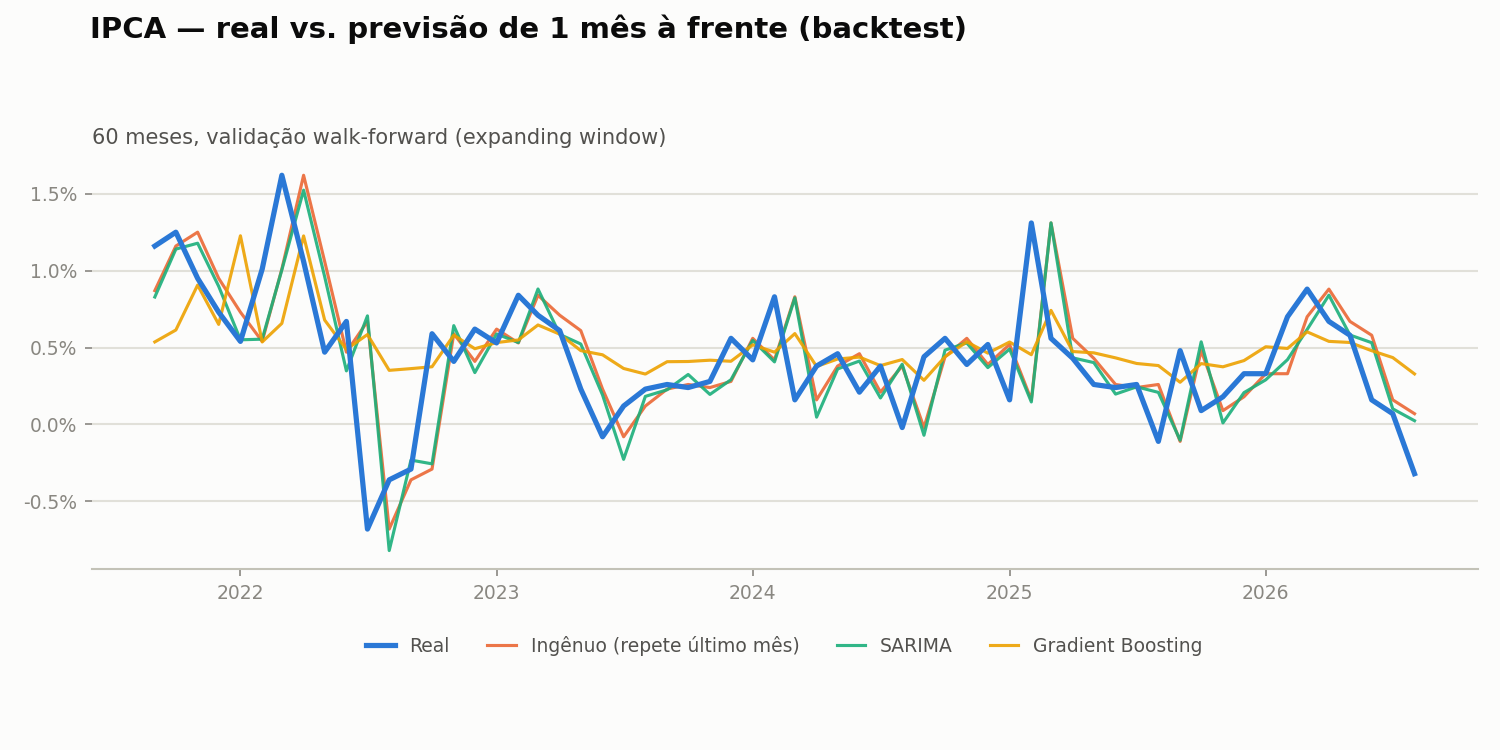
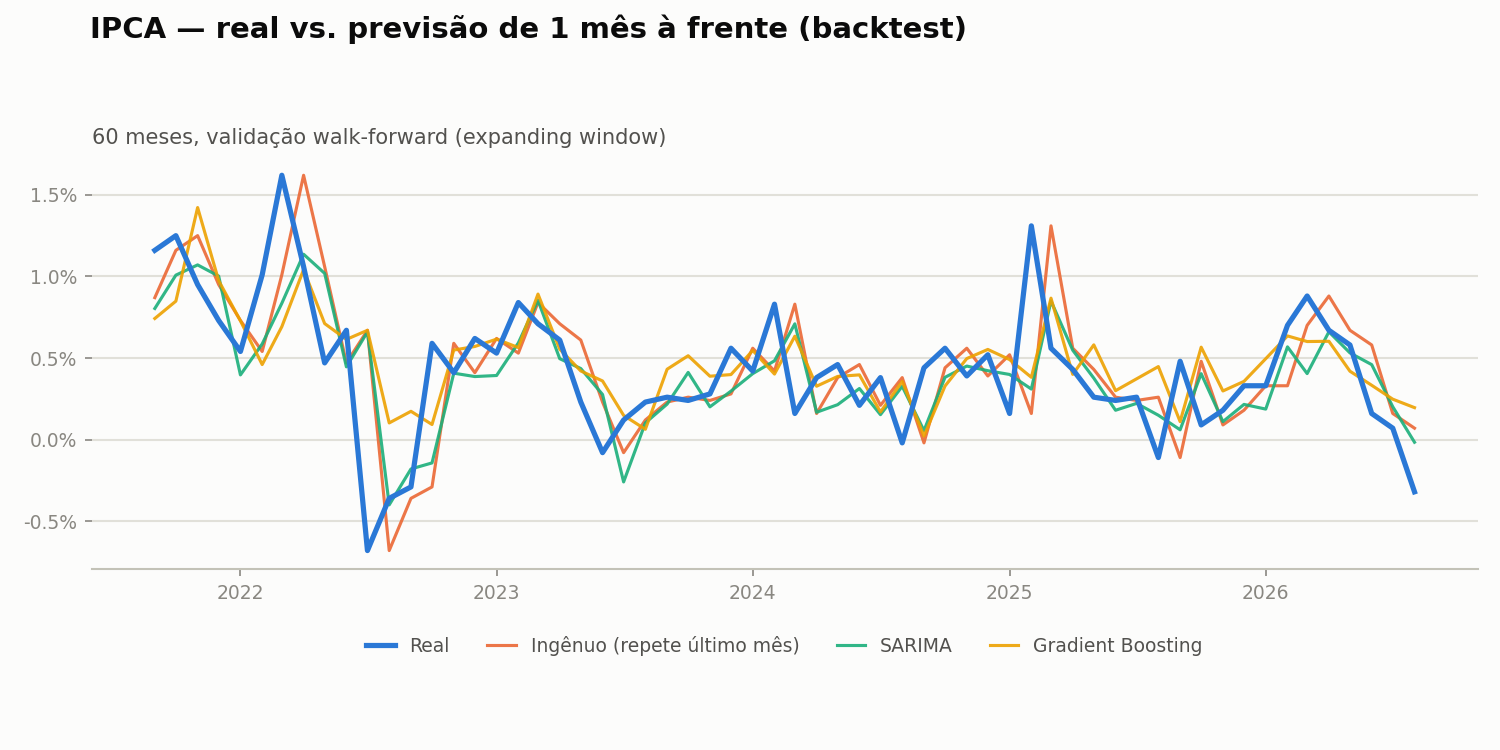
Adiciona log de previsões reais e corrige janela de treino
registrar_previsao.py grava, antes de cada divulgação do IBGE, o que
os modelos preveem para o próximo mês, e reconcilia o valor real assim
que sai — medindo precisão fora da amostra ao longo do tempo em vez de
só simulada. Roda automaticamente todo mês pelo workflow.

Também restringe o treino dos modelos ao período pós-Plano Real
(jul/1994): incluir a hiperinflação piorava as estimativas do SARIMA.

diff --git a/ipca-ibge/registrar_previsao.py b/ipca-ibge/registrar_previsao.py
@@ -1,0 +1,84 @@
+"""
+Mantém um log de previsões reais (fora da amostra) da variação mensal do
+IPCA: a cada execução, preenche o valor real de previsões antigas cujo mês
+já foi divulgado pelo IBGE, e — se o próximo mês ainda não tiver previsão
+registrada — gera uma nova usando só os dados disponíveis até agora.
+
+Diferente do backtest em prever_ipca.py (que simula previsões passadas),
+aqui a previsão é gravada ANTES de o IBGE divulgar o dado real, então o
+log mede precisão de verdade ao longo do tempo, sem viés de retrospecto.
+Uma previsão, uma vez registrada, nunca é reescrita.
+"""
+
+import os
+
+import pandas as pd
+
+from modelos_ipca import carregar, construir_features, prever_naive, prever_sarima, prever_ml
+
+LOG = "previsoes_log.csv"
+
+
+def carregar_log():
+    if os.path.exists(LOG):
+        return pd.read_csv(LOG, parse_dates=["mes_previsto"])
+    return pd.DataFrame(columns=["mes_previsto", "data_geracao", "naive", "sarima", "ml", "real"])
+
+
+def reconciliar(log, serie):
+    pendentes = log["real"].isna()
+    valores_reais = log.loc[pendentes, "mes_previsto"].map(serie)
+    log.loc[pendentes, "real"] = valores_reais
+    return log
+
+
+def gerar_previsao(df, proximo_mes):
+    serie = df["variacao_mensal"]
+    feats = construir_features(serie)
+
+    nova_linha = pd.DataFrame({"mes": [proximo_mes.month]}, index=[proximo_mes])
+    for lag in (1, 2, 3, 6, 12):
+        nova_linha[f"lag_{lag}"] = serie.iloc[-lag]
+    nova_linha["media_movel_3"] = serie.iloc[-3:].mean()
+    nova_linha["media_movel_12"] = serie.iloc[-12:].mean()
+
+    colunas = feats.drop(columns="y").columns
+    x_treino, y_treino = feats[colunas], feats["y"]
+    x_alvo = nova_linha[colunas]
+
+    return {
+        "mes_previsto": proximo_mes,
+        "data_geracao": pd.Timestamp.utcnow().tz_localize(None),
+        "naive": prever_naive(serie),
+        "sarima": prever_sarima(serie),
+        "ml": prever_ml(x_treino, y_treino, x_alvo),
+        "real": float("nan"),
+    }
+
+
+def atualizar():
+    df = carregar()
+    serie = df["variacao_mensal"]
+    log = carregar_log()
+
+    log = reconciliar(log, serie)
+
+    proximo_mes = serie.index[-1] + pd.DateOffset(months=1)
+    ja_registrado = (log["mes_previsto"] == proximo_mes).any()
+
+    if not ja_registrado:
+        nova = gerar_previsao(df, proximo_mes)
+        nova_linha = pd.DataFrame([nova])
+        log = nova_linha if log.empty else pd.concat([log, nova_linha], ignore_index=True)
+        print(f"Previsão registrada para {proximo_mes:%Y-%m}: "
+              f"naive={nova['naive']:.2f}  sarima={nova['sarima']:.2f}  ml={nova['ml']:.2f}")
+    else:
+        print(f"{proximo_mes:%Y-%m} já tem previsão registrada — nada a fazer.")
+
+    log = log.sort_values("mes_previsto").reset_index(drop=True)
+    log.to_csv(LOG, index=False)
+    return log
+
+
+if __name__ == "__main__":
+    atualizar()

diff --git a/ipca-ibge/modelos_ipca.py b/ipca-ibge/modelos_ipca.py
@@ -1,0 +1,51 @@
+"""
+Funções de modelagem compartilhadas entre o backtest (prever_ipca.py) e o
+registro de previsões reais (registrar_previsao.py): um baseline ingênuo,
+SARIMA e um modelo de ML (gradient boosting com features de defasagem).
+"""
+
+import pandas as pd
+from sklearn.ensemble import HistGradientBoostingRegressor
+from statsmodels.tsa.statespace.sarimax import SARIMAX
+
+# A partir do Plano Real (jul/1994) — antes disso é outro regime de inflação
+# (hiperinflação), cujo histórico não ajuda a prever o cenário atual.
+INICIO_SERIE_MODERNA = "1994-07-01"
+
+LAGS = [1, 2, 3, 6, 12]
+
+
+def carregar(caminho="ipca.csv"):
+    df = pd.read_csv(caminho)
+    df["data"] = pd.to_datetime(df["periodo"], format="%Y%m")
+    df = df.set_index("data").asfreq("MS")
+    return df.loc[INICIO_SERIE_MODERNA:]
+
+
+def construir_features(serie):
+    df = pd.DataFrame({"y": serie})
+    for lag in LAGS:
+        df[f"lag_{lag}"] = serie.shift(lag)
+    df["media_movel_3"] = serie.shift(1).rolling(3).mean()
+    df["media_movel_12"] = serie.shift(1).rolling(12).mean()
+    df["mes"] = df.index.month
+    return df.dropna()
+
+
+def prever_naive(historico):
+    return historico.iloc[-1]
+
+
+def prever_sarima(historico):
+    modelo = SARIMAX(
+        historico, order=(1, 0, 1), seasonal_order=(1, 0, 1, 12),
+        enforce_stationarity=False, enforce_invertibility=False,
+    )
+    resultado = modelo.fit(disp=False)
+    return resultado.forecast(1).iloc[0]
+
+
+def prever_ml(x_treino, y_treino, x_alvo):
+    modelo = HistGradientBoostingRegressor(max_depth=3, random_state=0)
+    modelo.fit(x_treino, y_treino)
+    return modelo.predict(x_alvo)[0]

diff --git a/ipca-ibge/prever_ipca.py b/ipca-ibge/prever_ipca.py
@@ -5,47 +5,11 @@ SARIMA e um modelo de ML (gradient boosting com features de defasagem).
 """
 
 import pandas as pd
-from sklearn.ensemble import HistGradientBoostingRegressor
 from sklearn.metrics import mean_absolute_error, mean_squared_error
-from statsmodels.tsa.statespace.sarimax import SARIMAX
+
+from modelos_ipca import carregar, construir_features, prever_naive, prever_sarima, prever_ml
 
 JANELA_TESTE = 60  # últimos 5 anos, previsão de 1 mês à frente em cada um
-LAGS = [1, 2, 3, 6, 12]
-
-
-def carregar():
-    df = pd.read_csv("ipca.csv")
-    df["data"] = pd.to_datetime(df["periodo"], format="%Y%m")
-    return df.set_index("data").asfreq("MS")
-
-
-def construir_features(serie):
-    df = pd.DataFrame({"y": serie})
-    for lag in LAGS:
-        df[f"lag_{lag}"] = serie.shift(lag)
-    df["media_movel_3"] = serie.shift(1).rolling(3).mean()
-    df["media_movel_12"] = serie.shift(1).rolling(12).mean()
-    df["mes"] = df.index.month
-    return df.dropna()
-
-
-def prever_naive(historico):
-    return historico.iloc[-1]
-
-
-def prever_sarima(historico):
-    modelo = SARIMAX(
-        historico, order=(1, 0, 1), seasonal_order=(1, 0, 1, 12),
-        enforce_stationarity=False, enforce_invertibility=False,
-    )
-    resultado = modelo.fit(disp=False)
-    return resultado.forecast(1).iloc[0]
-
-
-def prever_ml(x_treino, y_treino, x_alvo):
-    modelo = HistGradientBoostingRegressor(max_depth=3, random_state=0)
-    modelo.fit(x_treino, y_treino)
-    return modelo.predict(x_alvo)[0]
 
 
 def backtest(df):

diff --git a/ipca-ibge/README.md b/ipca-ibge/README.md
@@ -10,7 +10,8 @@ Os dados são atualizados automaticamente todo mês via GitHub Actions, então o
 |-------|---------|-------------------|
 | **Extração** | `extrair_ipca.py` | Consulta a API SIDRA do IBGE e salva a série completa em `ipca.csv`. |
 | **Visualização** | `grafico_ipca.py` | Lê `ipca.csv` e gera `ipca_variacao_mensal.png`, com um painel da série completa (mostrando a hiperinflação pré-Real) e outro recortado a partir do Plano Real (jul/1994), onde a escala moderna fica legível. |
-| **Automação** | `../.github/workflows/atualizar-ipca.yml` | Roda os dois scripts todo mês e commita os arquivos atualizados. |
+| **Registro de previsão** | `registrar_previsao.py` | Preenche o valor real de previsões antigas já divulgadas e registra a previsão do próximo mês, sempre antes de o IBGE divulgar o dado. |
+| **Automação** | `../.github/workflows/atualizar-ipca.yml` | Roda os três scripts todo mês e commita os arquivos atualizados. |
 
 ### Variáveis extraídas
 
@@ -27,17 +28,23 @@ Os dados são atualizados automaticamente todo mês via GitHub Actions, então o
 - **SARIMA** — modelo estatístico clássico de série temporal, com sazonalidade de 12 meses.
 - **Gradient Boosting** — modelo de ML (`HistGradientBoostingRegressor`) com features de defasagem (lags de 1, 2, 3, 6 e 12 meses, médias móveis e mês do ano).
 
+Os modelos são treinados só com dados a partir do Plano Real (jul/1994) — o período de hiperinflação anterior é outro regime econômico, e incluí-lo piora as estimativas em vez de ajudar.
+
 Resultado do backtest nos últimos 60 meses (erro absoluto médio e raiz do erro quadrático médio, em pontos percentuais):
 
 | Modelo | MAE | RMSE |
 |--------|-----|------|
 | Ingênuo | 0,295 | 0,395 |
-| SARIMA | 0,290 | 0,394 |
-| Gradient Boosting | 0,281 | 0,380 |
+| SARIMA | 0,254 | 0,349 |
+| Gradient Boosting | 0,276 | 0,369 |
 
 ![Gráfico comparando IPCA real e previsões dos três modelos](previsao_ipca.png)
 
-O ganho do ML sobre o baseline ingênuo é pequeno — esperado, já que os modelos usam apenas a própria série histórica do IPCA, sem variáveis exógenas (Selic, câmbio, expectativas do boletim Focus etc.). O valor do experimento está em comparar metodologias com validação honesta, não em bater recorde de erro. Diferente da extração de dados, essa análise **não roda automaticamente** — é um script para reexecutar manualmente quando o CSV for atualizado.
+O ganho sobre o baseline ingênuo é real mas modesto — esperado, já que os modelos usam apenas a própria série histórica do IPCA, sem variáveis exógenas (Selic, câmbio, expectativas do boletim Focus etc.). O valor do experimento está em comparar metodologias com validação honesta, não em bater recorde de erro. Diferente da extração de dados, esse backtest **não roda automaticamente** — é um script para reexecutar manualmente quando quiser reavaliar os modelos.
+
+### Log de previsões reais
+
+Backtest simula previsões passadas; `registrar_previsao.py` faz o teste de verdade: **antes** de cada divulgação do IBGE, registra em `previsoes_log.csv` o que cada modelo previu para o próximo mês, usando só os dados disponíveis até então. Quando o dado real sai, a próxima execução preenche a coluna `real` daquela linha — sem nunca reescrever a previsão em si. Isso roda automaticamente todo mês, junto com a extração dos dados, então o log cresce sozinho e mede precisão fora da amostra ao longo do tempo, sem viés de retrospecto.
 
 ## Estrutura do projeto
 
@@ -45,13 +52,16 @@ O ganho do ML sobre o baseline ingênuo é pequeno — esperado, já que os mode
 .
 ├── extrair_ipca.py            # Extração + limpeza dos dados
 ├── grafico_ipca.py             # Gráfico da série histórica
+├── modelos_ipca.py              # Modelos compartilhados (naive, SARIMA, gradient boosting)
 ├── prever_ipca.py              # Backtest walk-forward dos 3 modelos de previsão
 ├── grafico_previsao.py         # Gráfico real vs. previsões do backtest
+├── registrar_previsao.py       # Log de previsões reais mês a mês
 ├── ipca.csv                    # Série histórica atualizada
 ├── ipca_variacao_mensal.png    # Gráfico da série atualizado
 ├── backtest_previsao.csv       # Previsões mês a mês do backtest
 ├── metricas_previsao.csv       # MAE/RMSE de cada modelo
 ├── previsao_ipca.png           # Gráfico real vs. previsões
+├── previsoes_log.csv           # Log de previsões reais (fora da amostra)
 └── requirements.txt
 ```
 
@@ -61,8 +71,9 @@ O ganho do ML sobre o baseline ingênuo é pequeno — esperado, já que os mode
 pip install -r requirements.txt
 python extrair_ipca.py
 python grafico_ipca.py
-python prever_ipca.py
-python grafico_previsao.py
+python prever_ipca.py         # backtest, manual
+python grafico_previsao.py    # gráfico do backtest, manual
+python registrar_previsao.py  # log de previsões reais, roda todo mês
 ```
 
 ## Tecnologias
